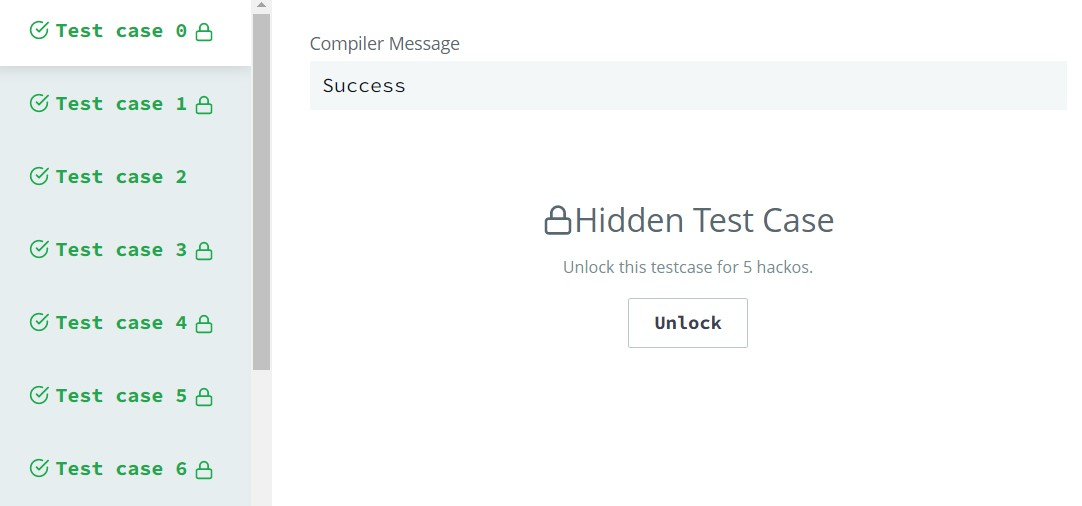
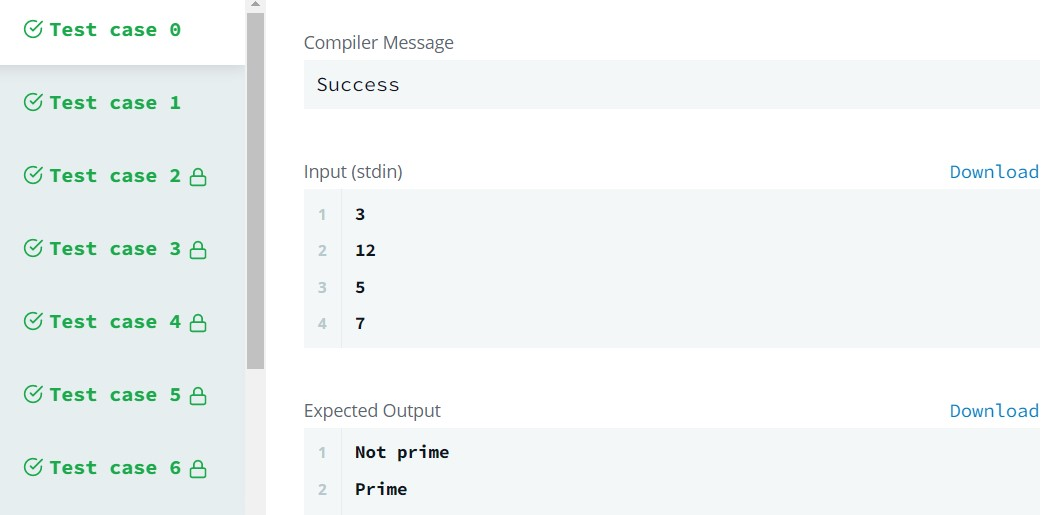
problem Subarray Division solved

diff --git a/Problem Solving/Subarray Division/Readme.md b/Problem Solving/Subarray Division/Readme.md
@@ -1,0 +1,5 @@
+### O código só roda na plataforma HackerRank (https://www.hackerrank.com/)
+
+<img src = "./image/problema.png">
+
+<img src = "./image/resultado.jpg">
